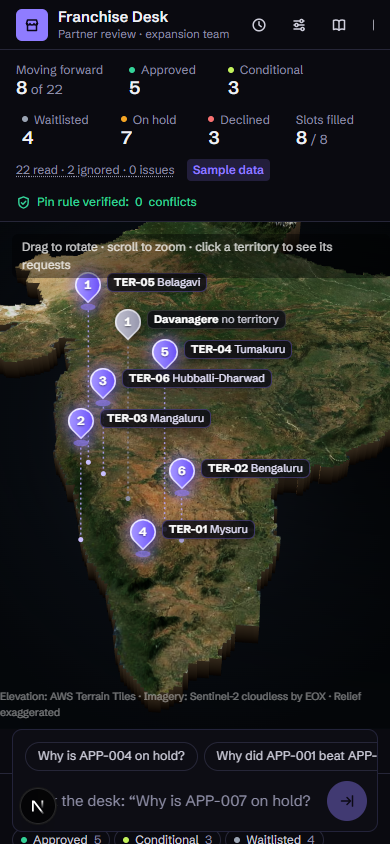
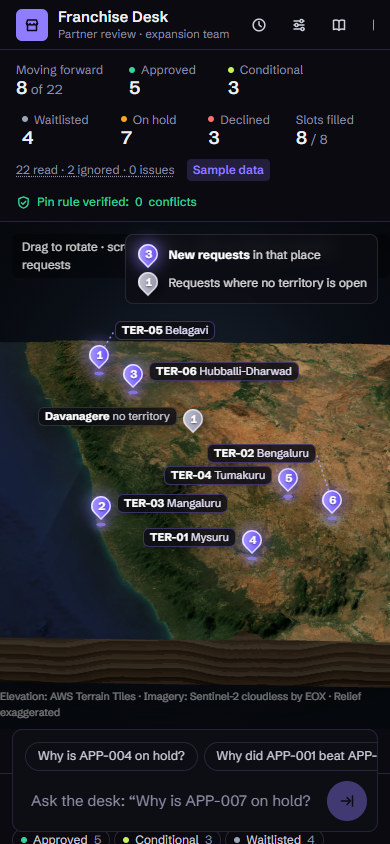
Close-up 3D slab of the territory region that fills the screen, with layered rock walls; flat map on software rendering

diff --git a/components/map/Diorama.tsx b/components/map/Diorama.tsx
@@ -18,6 +18,8 @@ export interface DioramaProps {
   hint?: string;
   /** Slowly swing the view around India while nobody is touching it. */
   autoRotate?: boolean;
+  /** Close-up of the territory region (default) or the whole of India. */
+  view?: "region" | "india";
 }
 
 interface Meta {
@@ -28,9 +30,13 @@ interface Meta {
 }
 
 const WIDTH = 10; // world units across the model
-const EXAGGERATION = 16; // relief exaggeration so the land reads at country scale
-const BASE_Y = -0.22; // depth of the cut walls
-const STEP = 2; // heightmap pixels per mesh cell
+// India: the whole country cut to its outline. Region: a close-up rectangular slab of the territory region
+// (Karnataka with a margin), thick rock walls in front, framed to fill the screen.
+const STRATA = ["#9b7b57", "#c4a47c", "#7a5c3e", "#b39168", "#8c6d4c", "#d1b48c"].map((c) => new THREE.Color(c));
+const MODES = {
+  india: { dir: "/diorama/", ex: 16, base: -0.22, step: 2, strata: 260 },
+  region: { dir: "/diorama/region/", ex: 7, base: -1.1, step: 1, strata: 9 },
+};
 
 function loadImage(src: string): Promise<HTMLImageElement> {
   return new Promise((res, rej) => {
@@ -59,7 +65,7 @@ function mercY(lat: number, z: number) {
   return (0.5 - Math.log((1 + s) / (1 - s)) / (4 * Math.PI)) * 2 ** z * 256;
 }
 
-export default function Diorama({ points, activeKey, onPick, reducedMotion, onFail, hint, autoRotate }: DioramaProps) {
+export default function Diorama({ points, activeKey, onPick, reducedMotion, onFail, hint, autoRotate, view = "region" }: DioramaProps) {
   const host = useRef<HTMLDivElement>(null);
   const tagLayer = useRef<HTMLDivElement>(null);
   const lineLayer = useRef<SVGSVGElement>(null);
@@ -80,9 +86,20 @@ export default function Diorama({ points, activeKey, onPick, reducedMotion, onFa
     (async () => {
       try {
         const test = document.createElement("canvas");
-        if (!(test.getContext("webgl2") || test.getContext("webgl"))) throw new Error("WebGL is not available");
-        const meta: Meta = await fetch("/diorama/meta.json").then((r) => r.json());
-        const [hImg, mImg, sat] = await Promise.all([loadImage("/diorama/height.png"), loadImage("/diorama/mask.png"), new THREE.TextureLoader().loadAsync("/diorama/sat.jpg")]);
+        const probe = (test.getContext("webgl2") || test.getContext("webgl")) as WebGLRenderingContext | null;
+        if (!probe) throw new Error("WebGL is not available");
+        // software rendering (no GPU) cannot keep a detailed 3D scene smooth: the flat map is faster and clearer there
+        const info = probe.getExtension("WEBGL_debug_renderer_info");
+        const gpu = info ? String(probe.getParameter(info.UNMASKED_RENDERER_WEBGL)) : "";
+        probe.getExtension("WEBGL_lose_context")?.loseContext();
+        if (/swiftshader|llvmpipe|software|basic render/i.test(gpu)) throw new Error(`software rendering (${gpu.slice(0, 40)})`);
+        const M = MODES[view];
+        const narrow = el.clientWidth < 640;
+        const EXAGGERATION = M.ex;
+        const BASE_Y = M.base;
+        const STEP = view === "region" && narrow ? 2 : M.step; // lighter mesh on phones
+        const meta: Meta = await fetch(`${M.dir}meta.json`).then((r) => r.json());
+        const [hImg, mImg, sat] = await Promise.all([loadImage(`${M.dir}height.png`), loadImage(`${M.dir}mask.png`), new THREE.TextureLoader().loadAsync(`${M.dir}sat.jpg`)]);
         if (disposed) return;
         const W = meta.height.w;
         const H = meta.height.h;
@@ -141,15 +158,22 @@ export default function Diorama({ points, activeKey, onPick, reducedMotion, onFa
         const pushV = (x: number, y: number, z: number) => {
           wpos.push(x, y, z);
           const t = Math.min(1, Math.max(0, (y - BASE_Y) / (0.06 - BASE_Y)));
-          const band = Math.sin(y * 260) * 0.06; // faint strata
-          const col = deep.clone().lerp(sand, t * 0.9 + 0.1).offsetHSL(0, 0, band);
+          // wavy rock strata: bands of sandstone tones that undulate along the wall
+          const k = y * M.strata + Math.sin(x * 1.9) * 0.9 + Math.sin(x * 5.3 + z * 3.1) * 0.25;
+          const layer = STRATA[((Math.floor(k) % STRATA.length) + STRATA.length) % STRATA.length];
+          const col = deep.clone().lerp(sand, t * 0.75 + 0.25).lerp(layer, 0.55).offsetHSL(0, 0, Math.sin(k * 6.28) * 0.025);
           wcol.push(col.r, col.g, col.b);
         };
+        const SEG = view === "region" ? 44 : 1; // vertical slices so the strata can show
         const wall = (k1: number, k2: number) => {
           const [x1, y1, z1] = [pos[k1 * 3], pos[k1 * 3 + 1], pos[k1 * 3 + 2]];
           const [x2, y2, z2] = [pos[k2 * 3], pos[k2 * 3 + 1], pos[k2 * 3 + 2]];
-          pushV(x1, y1, z1); pushV(x1, BASE_Y, z1); pushV(x2, y2, z2);
-          pushV(x2, y2, z2); pushV(x1, BASE_Y, z1); pushV(x2, BASE_Y, z2);
+          for (let i = 0; i < SEG; i++) {
+            const a1 = y1 + ((BASE_Y - y1) * i) / SEG, b1 = y1 + ((BASE_Y - y1) * (i + 1)) / SEG;
+            const a2 = y2 + ((BASE_Y - y2) * i) / SEG, b2 = y2 + ((BASE_Y - y2) * (i + 1)) / SEG;
+            pushV(x1, a1, z1); pushV(x1, b1, z1); pushV(x2, a2, z2);
+            pushV(x2, a2, z2); pushV(x1, b1, z1); pushV(x2, b2, z2);
+          }
         };
         const basePos: number[] = [];
         for (let r = 0; r < rows - 1; r++)
@@ -205,19 +229,20 @@ export default function Diorama({ points, activeKey, onPick, reducedMotion, onFa
 
         // ---- camera: looking at India from the south, Karnataka in front ----
         // phones frame south India closely so the territory tags have room; wide screens show the whole country
-        const narrow = el.clientWidth < 640;
-        const target = narrow ? new THREE.Vector3(-1.7, 0, 2.3) : new THREE.Vector3(0.1, 0, 0.55);
+        const region = view === "region";
+        const target = region ? (narrow ? new THREE.Vector3(-0.2, 0, 0.3) : new THREE.Vector3(0, -0.45, 0.8)) : narrow ? new THREE.Vector3(-1.7, 0, 2.3) : new THREE.Vector3(0.1, 0, 0.55);
         const controls = new OrbitControls(camera, renderer.domElement);
         controls.target.copy(target);
         controls.enableDamping = true;
         controls.dampingFactor = 0.08;
-        controls.minDistance = 3.2;
+        controls.minDistance = region ? 2 : 3.2;
         controls.maxDistance = 17;
         controls.minPolarAngle = 0.25;
-        controls.maxPolarAngle = 1.15;
+        controls.maxPolarAngle = region ? 1.32 : 1.15;
         controls.enablePan = true;
         controls.screenSpacePanning = false;
-        const endPos = narrow ? new THREE.Vector3(-1.3, 5.6, 8.6) : new THREE.Vector3(0.3, 9.4, 12.4);
+        // region: a low view from the south over the front wall, wide enough that the slab spans the screen
+        const endPos = region ? (narrow ? new THREE.Vector3(0, 10.5, 12.5) : new THREE.Vector3(0, 4.1, 9.6)) : narrow ? new THREE.Vector3(-1.3, 5.6, 8.6) : new THREE.Vector3(0.3, 9.4, 12.4);
         camera.position.copy(reducedMotion ? endPos : new THREE.Vector3(2.2, 15.5, 17.5));
         camera.lookAt(target);
 
@@ -387,9 +412,9 @@ export default function Diorama({ points, activeKey, onPick, reducedMotion, onFa
           if (latest.current.autoRotate && !reducedMotion && introT >= 1 && !touching && t - idleSince > 4000) {
             off.copy(camera.position).sub(controls.target);
             sph.setFromVector3(off);
-            if (baseTheta === null) baseTheta = sph.theta - 0.3 * Math.sin(swingT);
+            if (baseTheta === null) baseTheta = sph.theta - (region ? 0.16 : 0.3) * Math.sin(swingT);
             swingT += (2 * Math.PI) / (40 * 60);
-            sph.theta = baseTheta + 0.3 * Math.sin(swingT);
+            sph.theta = baseTheta + (region ? 0.16 : 0.3) * Math.sin(swingT);
             camera.position.copy(controls.target).add(off.setFromSpherical(sph));
             camera.lookAt(controls.target);
             dirty = true;

diff --git a/components/map/PinLegend.tsx b/components/map/PinLegend.tsx
@@ -14,12 +14,12 @@ function MiniPin({ label, muted }: { label: string; muted?: boolean }) {
   );
 }
 
-export function PinLegend({ points, sample }: { points: MapPoint[]; sample?: boolean }) {
+export function PinLegend({ points, sample, corner = "left" }: { points: MapPoint[]; sample?: boolean; corner?: "left" | "right" }) {
   const counted = points.some((p) => p.count !== undefined);
   const muted = points.some((p) => p.muted);
   if (!counted) return null;
   return (
-    <div className="pointer-events-none absolute left-3 top-12 z-[3] flex flex-col gap-1 rounded-lg border border-white/10 bg-[#0d0d14cc] px-2.5 py-2 text-[12px] text-white/85 backdrop-blur" aria-label="Map key">
+    <div className={`pointer-events-none absolute z-[3] ${corner === "left" ? "left-3 top-12" : "right-3 top-3"} flex flex-col gap-1 rounded-lg border border-white/10 bg-[#0d0d14cc] px-2.5 py-2 text-[12px] text-white/85 backdrop-blur`} aria-label="Map key">
       <div className="flex items-center gap-2">
         <MiniPin label="3" />
         <span>

diff --git a/components/Desk.tsx b/components/Desk.tsx
@@ -498,7 +498,7 @@ function WorldMap({ result, selected, highlight, onSelect, activeTerritory, onPi
           {failed && <p className="absolute bottom-24 left-1/2 -translate-x-1/2 text-[12px] text-muted">Map unavailable ({failed}). Every decision is in the list.</p>}
         </>
       )}
-      {(flat || mode === "overview") && <PinLegend points={points} />}
+      {(flat || mode === "overview") && !openKey && <PinLegend points={points} corner="right" />}
       {requestDecision ? (
         <LocationPanel
           result={result}

diff --git a/scripts/bake_diorama.py b/scripts/bake_diorama.py
@@ -4,7 +4,8 @@ Sources (credited in the app): elevation from AWS Terrain Tiles (Mapzen, open da
 imagery from Sentinel-2 cloudless by EOX (CC BY-NC-SA 4.0, Copernicus Sentinel data 2020);
 India outline from public/geo/india.json (Natural Earth, public domain).
 All three images share one Web Mercator pixel grid described in meta.json.
-Usage: python -I scripts/bake_diorama.py   (writes public/diorama/)
+Usage: python -I scripts/bake_diorama.py            (all India, writes public/diorama/)
+       python -I scripts/bake_diorama.py region     (close-up slab of the territory region, public/diorama/region/)
 """
 import io, json, math, os, sys, time, urllib.request
 from concurrent.futures import ThreadPoolExecutor
@@ -12,9 +13,12 @@ from pathlib import Path
 from PIL import Image, ImageDraw
 
 ROOT = Path(__file__).resolve().parent.parent
-OUT = ROOT / "public" / "diorama"
-Z = 6
-BBOX = (67.5, 5.5, 98.5, 37.6)  # lon min, lat min, lon max, lat max
+REGION = len(sys.argv) > 1 and sys.argv[1] == "region"
+OUT = ROOT / "public" / "diorama" / ("region" if REGION else "")
+# the region covers Karnataka with a margin: every expansion city and territory sits inside it
+Z = 9 if REGION else 6
+BBOX = (72.6, 11.2, 79.6, 16.8) if REGION else (67.5, 5.5, 98.5, 37.6)  # lon min, lat min, lon max, lat max
+HW, TW = (720, 3072) if REGION else (640, 2048)
 UA = {"User-Agent": "franchise-desk-diorama-bake/1.0 (one-off)"}
 
 def merc(lon, lat, z=Z):
@@ -56,10 +60,10 @@ def main():
     sat, _ = stitch(lambda x, y: f"https://tiles.maps.eox.at/wmts/1.0.0/s2cloudless-2020_3857/default/g/{Z}/{y}/{x}.jpg")
     w, h = dem.size
     # keep the heightmap as terrarium RGB (decoded in the browser), downsized for the mesh
-    hw = 640
+    hw = HW
     hh = round(h * hw / w)
     dem.resize((hw, hh), Image.BILINEAR).save(OUT / "height.png", optimize=True)
-    tw = 2048
+    tw = TW
     th = round(h * tw / w)
     sat.resize((tw, th), Image.LANCZOS).save(OUT / "sat.jpg", quality=86, optimize=True)
     # India mask on the heightmap grid
@@ -67,9 +71,9 @@ def main():
     feat = next(f for f in india["features"] if f["properties"].get("kind") == "india")
     polys = feat["geometry"]["coordinates"] if feat["geometry"]["type"] == "MultiPolygon" else [feat["geometry"]["coordinates"]]
     scale = hw / (px[2] - px[0])
-    mask = Image.new("L", (hw, hh), 0)
+    mask = Image.new("L", (hw, hh), 255 if REGION else 0)
     d = ImageDraw.Draw(mask)
-    for poly in polys:
+    for poly in ([] if REGION else polys):  # the region is a full rectangular slab
         ring = [((merc(lon, lat)[0] - px[0]) * scale, (merc(lon, lat)[1] - px[1]) * scale) for lon, lat in poly[0]]
         if len(ring) > 2:
             d.polygon(ring, fill=255)
